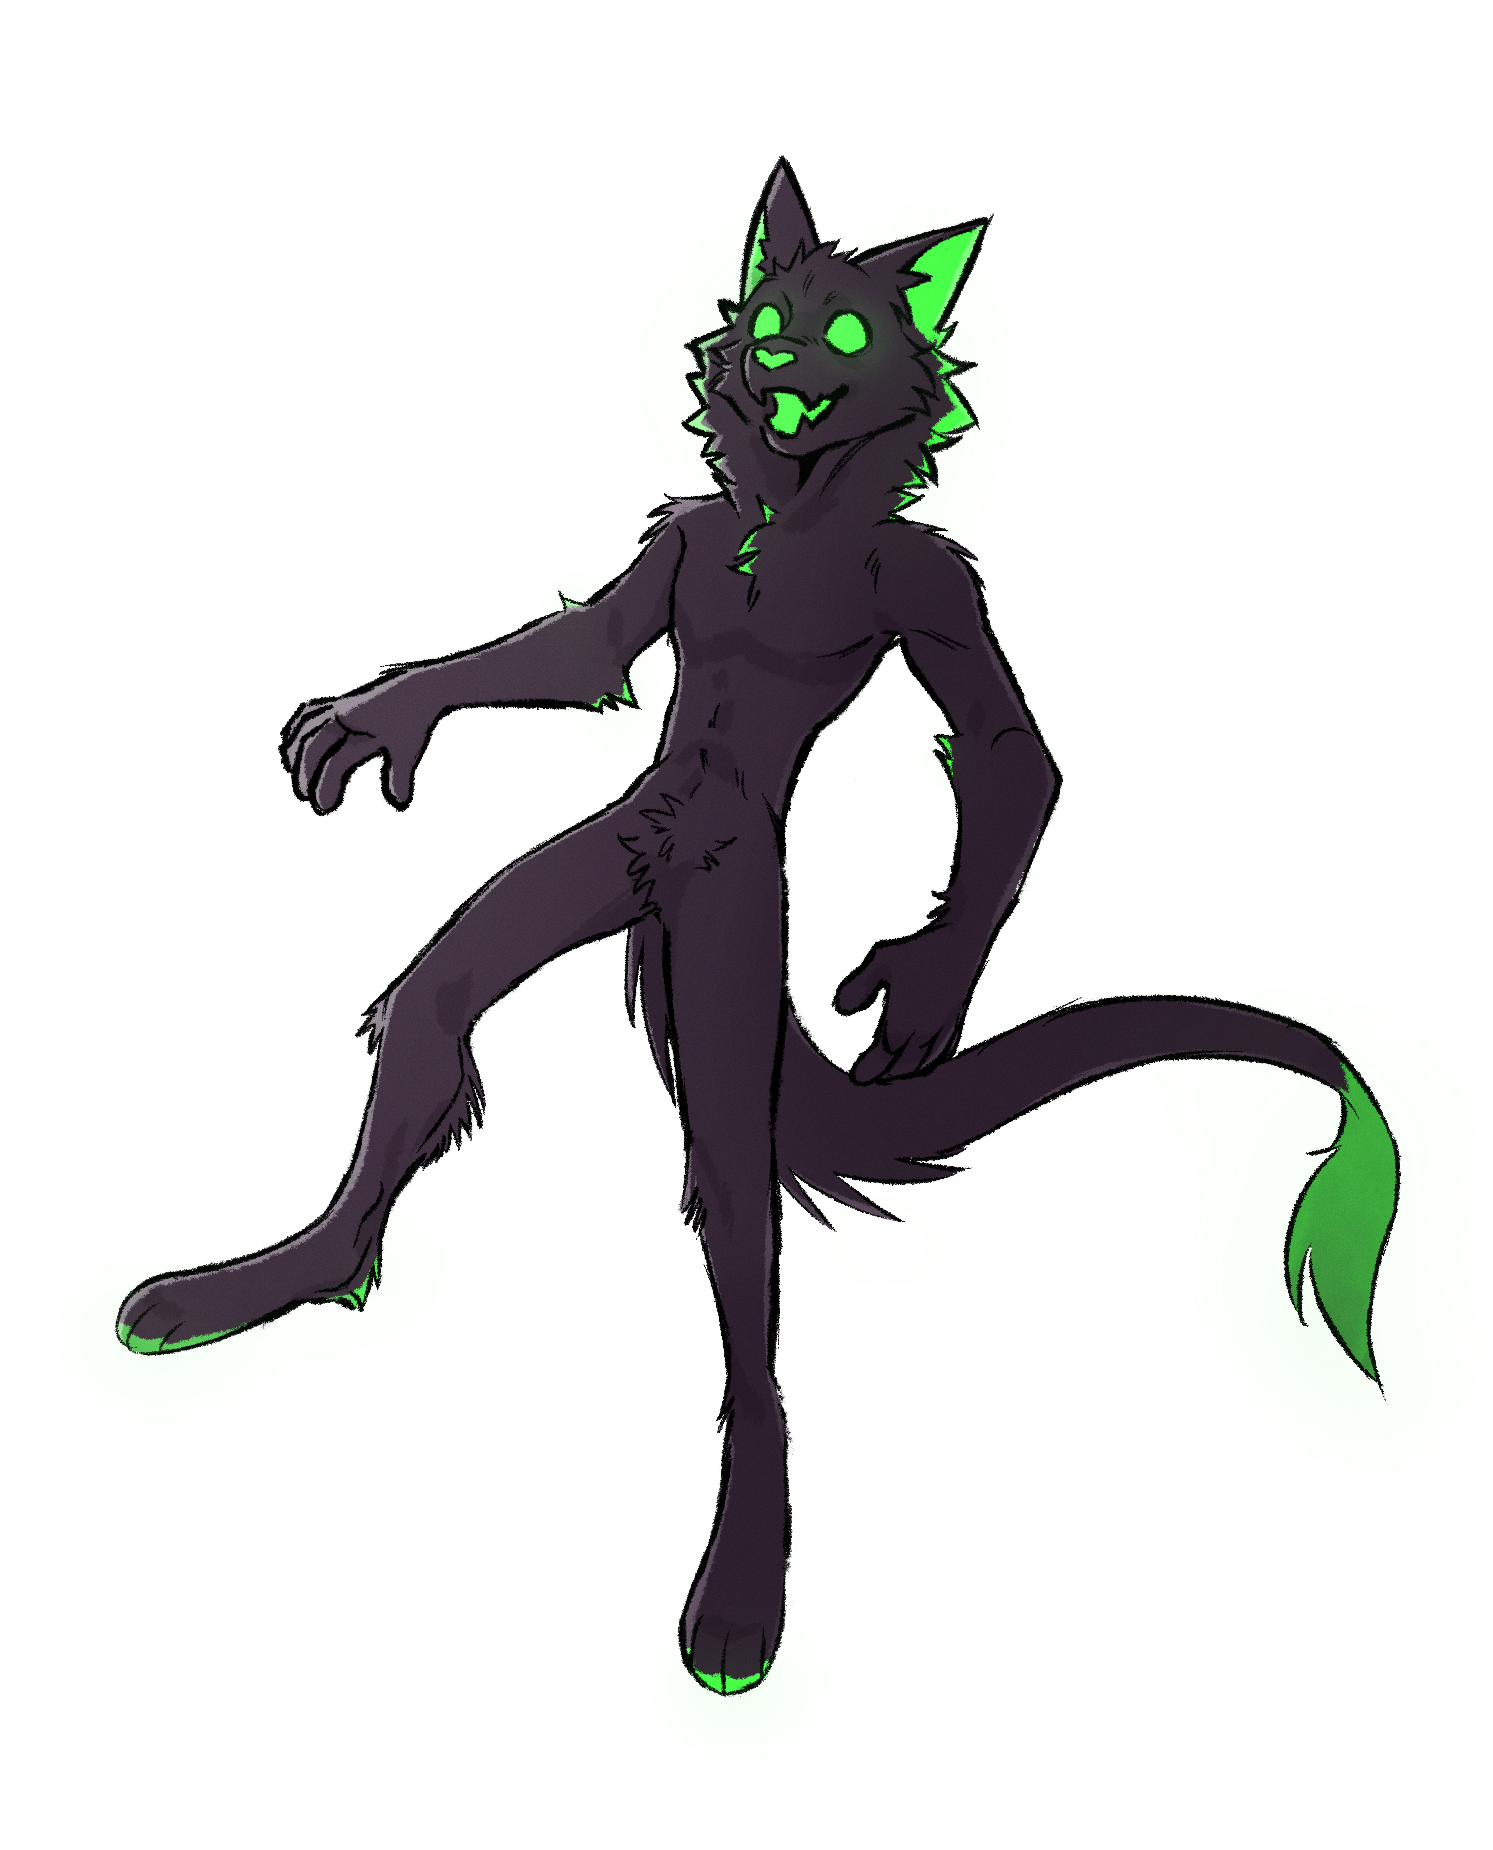
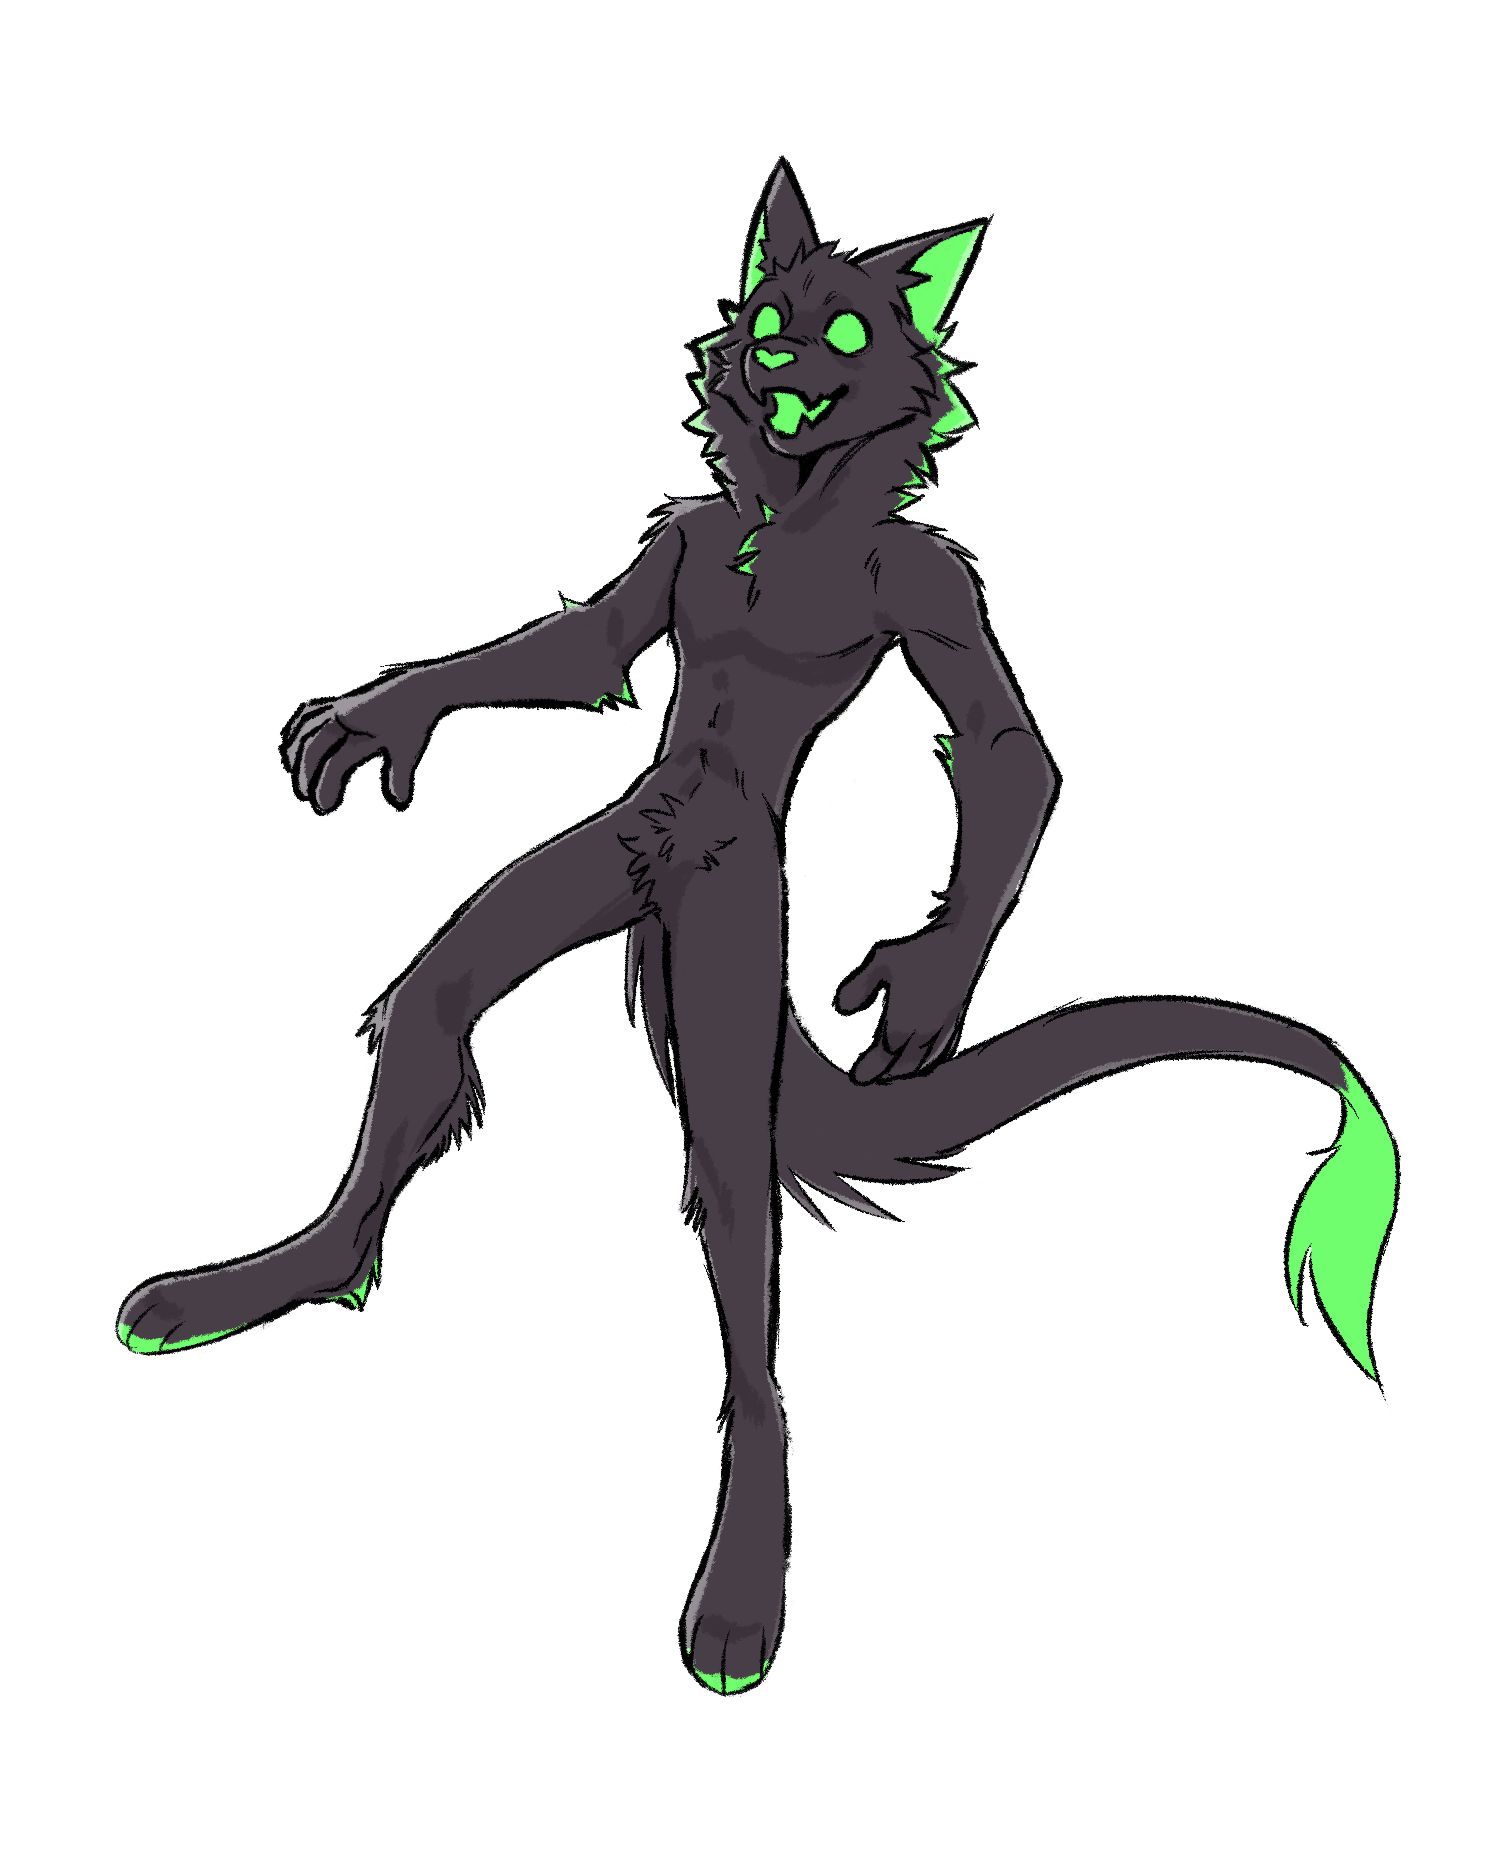
Added buttons to front page and removed shading on art

diff --git a/index.html b/index.html
@@ -48,7 +48,8 @@
         <div class="content-left">
             <h2>Welcome to</h2>
             <h1>DingleDangleDoff<span class="rainbow-text">.gay</span></h1>
-            <p>Right now I do not have much use for this website, but at least I have a cool domain</p>        
+            <p>Right now I do not have much use for this website, but at least I have a cool domain
+            </p>        
         </div>
         <div class="content-right">
             <img id="Image" src="SpaceDoff.png">
@@ -65,6 +66,24 @@
             <source src="Signal.wav" type="audio/wav">
         </audio>
     </div>
+
+    
+    <section class="buttons">
+        <ul class="buttons">
+            <li>
+                <img src="DingleDangleDoff.gay.gif" alt="Website Button">
+            </li>
+            <li>
+                <img src="Buttons\Non-Binary-Flag-Wave.gif" alt="Non binary">
+            </li>
+            <li>
+                <img src="Buttons\Paws!.gif" alt="Paws!">
+            </li>
+            <li>
+                <img src="Buttons\Australia.gif" alt="Paws!">
+            </li>
+        </ul>
+    </section>
     
     <script src="script.js"></script>
     <script src="home.js"></script>

diff --git a/home.css b/home.css
@@ -49,3 +49,27 @@
     width: 50px;
     height: auto;
 }
+
+.buttons {
+    text-align: center;
+    position: absolute;
+    bottom: 0;
+    left: 0;
+    right: 0;
+}
+
+.buttons ul {
+    list-style: none;
+    padding: 0;
+}
+
+.buttons ul li {
+    display: inline-block;
+    margin: 0 10px;
+    position: relative;
+}
+
+.buttons ul li a {
+    position: relative;
+    display: block;
+}
